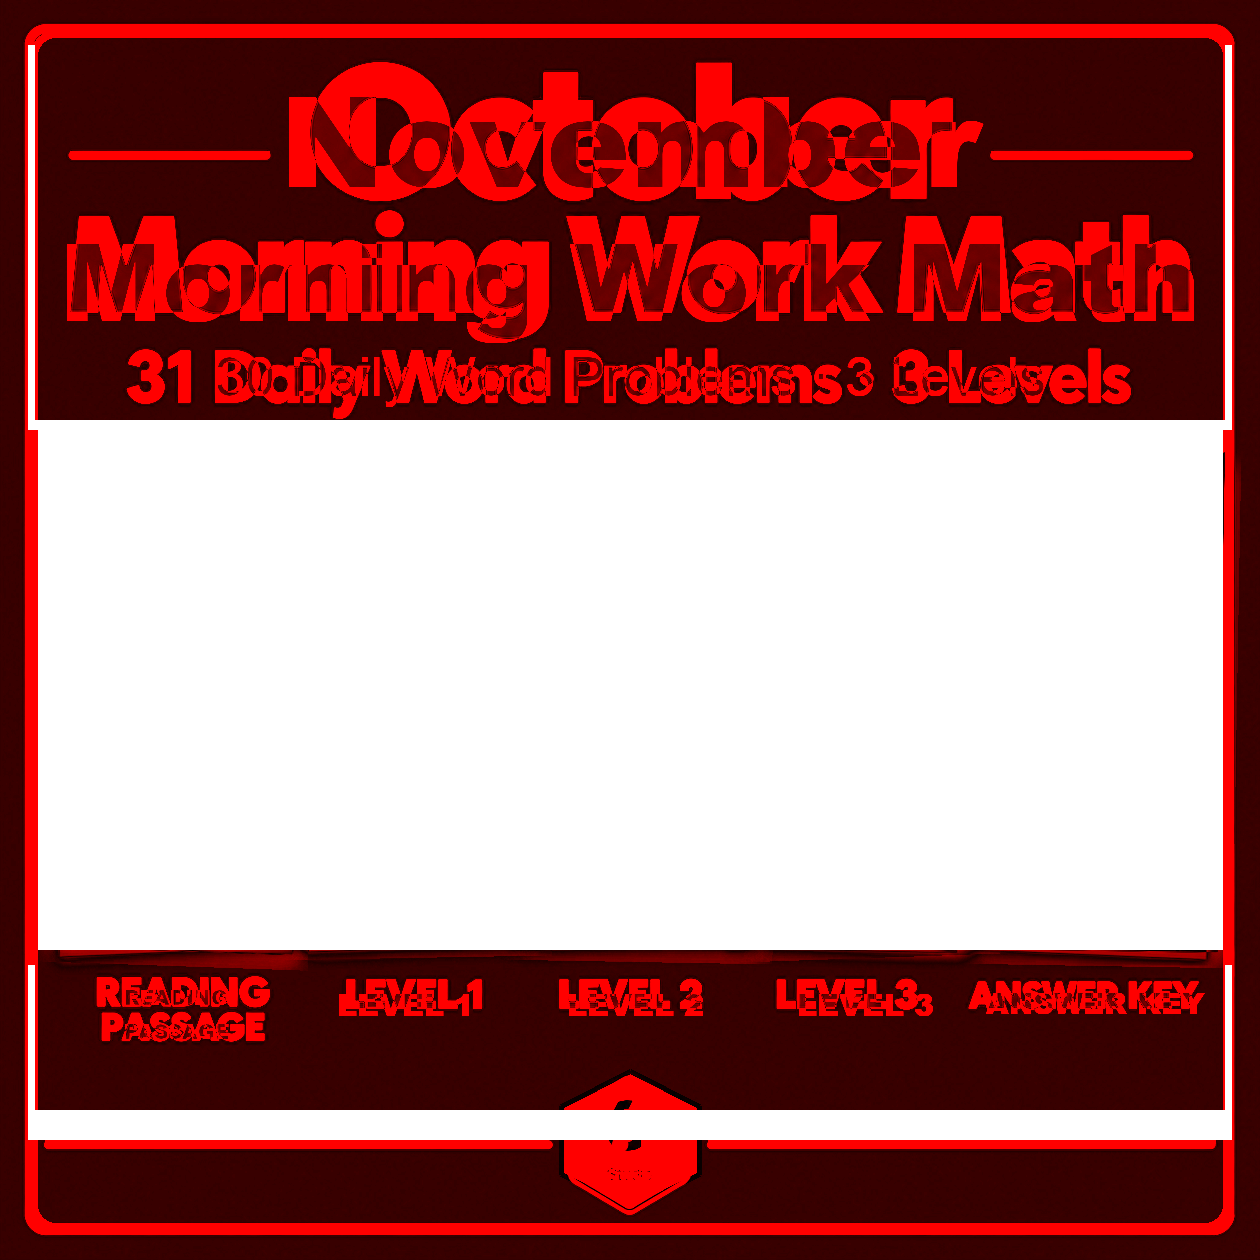
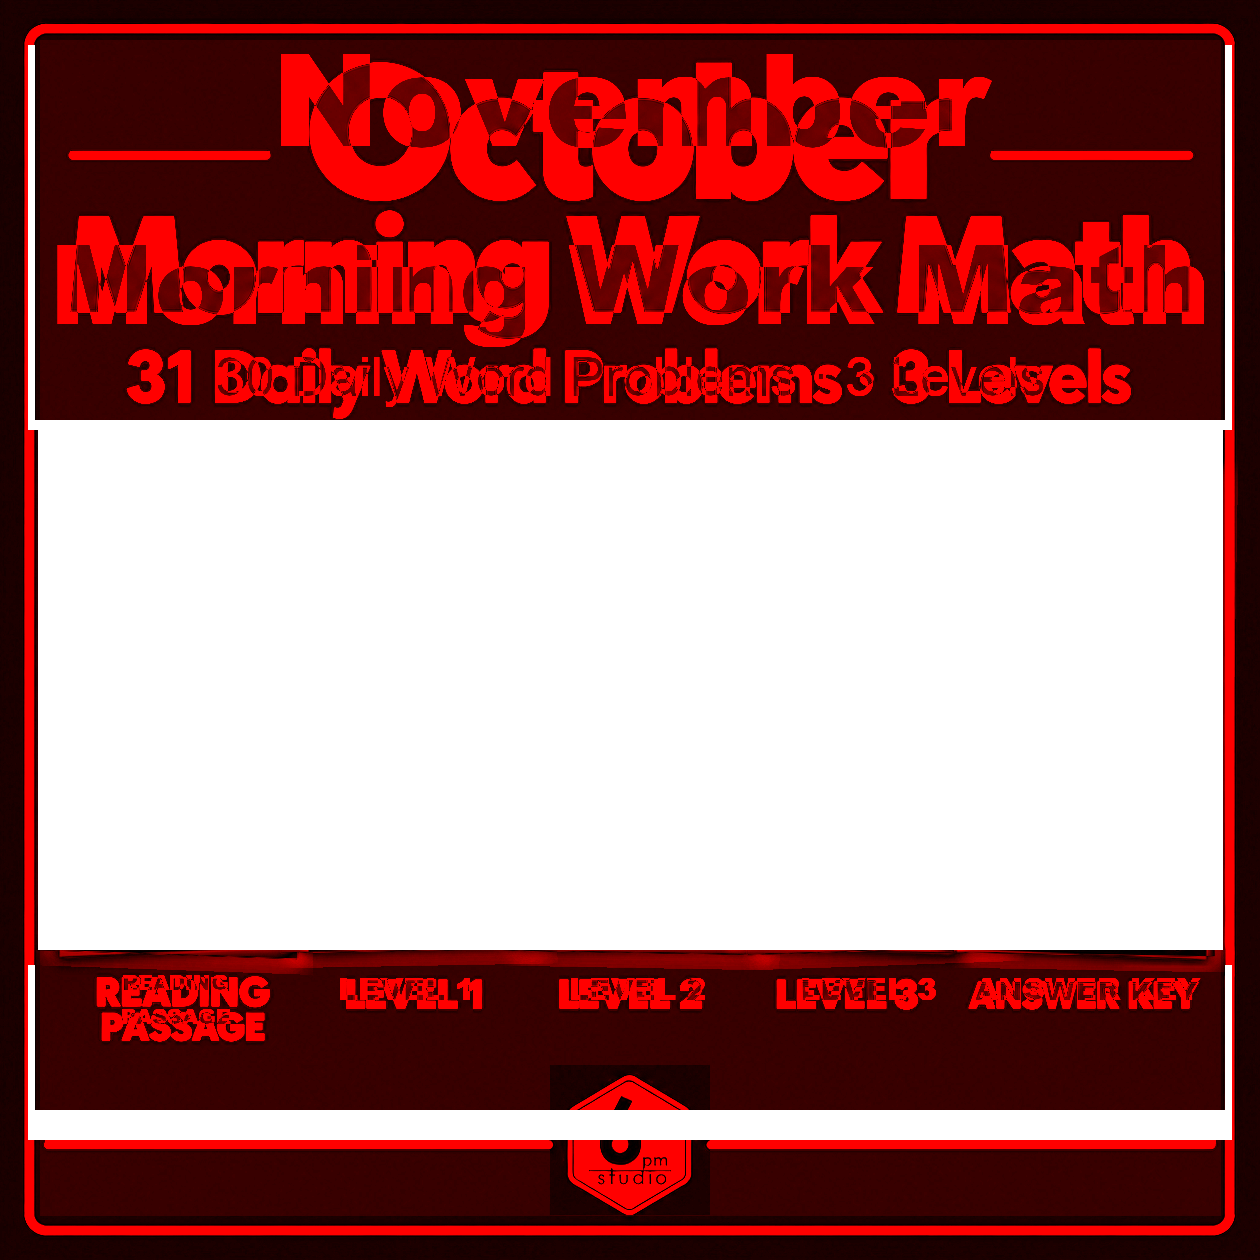
Align landing-page thumbnail with canonical reference

Changed region(s): [[0.0, 0.0, 1.0, 1.0], [0.5571, 0.1857, 0.681, 0.2476]]

diff --git a/scripts/generate_monthly_thumbnails.py b/scripts/generate_monthly_thumbnails.py
@@ -339,23 +339,37 @@ def compose_daily_practice(month, pages, out):
 
 def compose_landing_page(month, day_count, pages, out):
     """Compose the canonical five-page landing-page product preview."""
-    canvas = base_canvas()
+    # Start from the supplied canonical reference so the fixed frame, border,
+    # background, and footer geometry remain reference-derived rather than
+    # being approximated by a second vector drawing.
+    reference = Path("references /thumbnail-assets/thumbnail-5-reference.png")
+    if reference.exists():
+        canvas = Image.open(reference).convert("RGBA").resize((SIZE, SIZE), Image.Resampling.LANCZOS)
+    else:
+        canvas = base_canvas()
     draw = ImageDraw.Draw(canvas)
-    centered(draw, month.title(), 48, 126, 820)
+    # Clear only variable-content regions; retain the canonical frame itself.
+    draw.rectangle((40, 40, 1220, 430), fill=BG)
+    draw.rectangle((40, 430, 1220, 960), fill=BG)
+    draw.rectangle((40, 960, 1220, 1060), fill=BG)
+    draw.rectangle((40, 1060, 1220, 1215), fill=BG)
+    # Keep the month inside the reference's side-line gap even when a longer
+    # month name replaces October.
+    centered(draw, month.title(), 4, 150, 720)
     draw.line((70, 154, 269, 154), fill=ORANGE, width=7)
     draw.line((991, 154, 1190, 154), fill=ORANGE, width=7)
-    centered(draw, "Morning Work Math", 202, 108, 1180)
+    centered(draw, "Morning Work Math", 202, 112, 1160)
     centered(draw, f"{day_count} Daily Word Problems · 3 Levels", 347, 54, 1100, bold=False)
 
     # Keep the complete header unobstructed: the canonical reference reserves
     # the upper third for the month/title/subtitle and starts the five-card
     # strip below it.
     cards = [
-        ("reading_passage", 176, 700, 250, 500, -2.0, "READING\nPASSAGE"),
-        ("level1", 406, 692, 250, 500, 1.0, "LEVEL 1"),
-        ("level2", 636, 696, 250, 500, -1.0, "LEVEL 2"),
-        ("level3", 866, 692, 250, 500, 2.0, "LEVEL 3"),
-        ("answer_key", 1096, 700, 250, 500, -1.0, "ANSWER KEY"),
+        ("reading_passage", 176, 704, 260, 500, -2.0, "READING\nPASSAGE"),
+        ("level1", 407, 700, 260, 500, 1.0, "LEVEL 1"),
+        ("level2", 638, 702, 260, 500, -1.0, "LEVEL 2"),
+        ("level3", 869, 700, 260, 500, 2.0, "LEVEL 3"),
+        ("answer_key", 1088, 704, 260, 500, -1.0, "ANSWER KEY"),
     ]
     for key, cx, cy, width, height, angle, label in cards:
         worksheet = Image.new("RGBA", (width + 32, height + 32), (0, 0, 0, 0))
@@ -363,13 +377,26 @@ def compose_landing_page(month, day_count, pages, out):
         worksheet = worksheet.rotate(angle, resample=Image.Resampling.BICUBIC, expand=True)
         canvas.alpha_composite(worksheet, (cx - worksheet.width // 2, cy - worksheet.height // 2))
         label_lines = label.split("\n")
-        label_font = fitted(label.replace("\n", " "), 220, 30)
+        label_font = fitted(label.replace("\n", " "), 232, 30)
         for index, line in enumerate(label_lines):
-            draw.text((cx, 982 + index * 34), line, anchor="ma", fill=NAVY, font=label_font)
+            draw.text((cx, 966 + index * 34), line, anchor="ma", fill=NAVY, font=label_font)
     draw = ImageDraw.Draw(canvas)
     draw.line((45, 1140, 548, 1140), fill=ORANGE, width=6)
     draw.line((708, 1140, 1215, 1140), fill=ORANGE, width=6)
-    studio_logo(draw, 630, 1140, 138)
+    # The reference's outlined 6 pm studio mark is a fixed visual element.
+    # Reuse that approved mark instead of regenerating a simplified hexagon.
+    if reference.exists():
+        ref = Image.open(reference).convert("RGBA").resize((SIZE, SIZE), Image.Resampling.LANCZOS)
+        logo = ref.crop((550, 1065, 710, 1215))
+        pixels = logo.load()
+        for y in range(logo.height):
+            for x in range(logo.width):
+                r, g, b, _ = pixels[x, y]
+                if abs(r - 254) < 5 and abs(g - 255) < 5 and abs(b - 239) < 5:
+                    pixels[x, y] = (r, g, b, 0)
+        canvas.alpha_composite(logo, (550, 1065))
+    else:
+        studio_logo(draw, 630, 1140, 138)
     canvas.convert("RGB").save(out, "PNG", optimize=True)
 
 

diff --git a/docs/monthly-thumbnail-prompts.md b/docs/monthly-thumbnail-prompts.md
@@ -210,6 +210,49 @@ worksheet. No overlapping labels. No oversized logo. No changed color palette.
 No footer overlap.
 ```
 
+## Thumbnail 5 — Landing Page Product Preview
+
+```text
+Use the supplied canonical landing-page reference image as the exact visual
+source of truth. Create a square 1260×1260 product-preview thumbnail for the
+monthly printable math worksheet packet.
+
+Preserve the fixed reference geometry exactly:
+- warm ivory background, orange rounded frame, and bottom divider lines;
+- deep-navy geometric sans-serif typography and its hierarchy;
+- large month title, large MORNING WORK MATH title, and smaller day-count line;
+- five slightly rotated white worksheet cards with soft shadows, in one row;
+- card order: READING PASSAGE, LEVEL 1, LEVEL 2, LEVEL 3, ANSWER KEY;
+- label positions, card proportions, overlap order, footer spacing, and the
+  outlined 6 pm studio logo.
+
+Replace only month-specific content:
+- month name;
+- day count in the subtitle;
+- the five worksheet previews, which must be cropped or scaled from the final
+  verified monthly PDF and never invented or rewritten.
+
+The November output must read:
+November
+Morning Work Math
+30 Daily Word Problems · 3 Levels
+
+Keep the reference's canvas size, card geometry, rotations, shadows, logo,
+spacing, border, colors, and typography hierarchy unchanged. This is a
+deterministic compositor specification, not permission to redesign the image.
+```
+
+Negative prompt:
+
+```text
+Do not change the canvas size or frame. Do not simplify or redraw the logo.
+Do not use a different card ratio, grid, rotation, shadow, overlap, label
+position, font hierarchy, palette, or footer treatment. Do not generate fake
+worksheet text, questions, answer keys, or page previews. Do not use an
+October page in the November output. Do not add extra text, decorations,
+gradients, people, classroom scenes, or photographic backgrounds.
+```
+
 For the October example, use `[MONTH] = October`, `[WORKSHEET PAGE NUMBER] = 2`,
 `[LEVEL] = Level 1`, and `[MONTH DOODLE] = a small hand-drawn orange pumpkin
 accent`.
